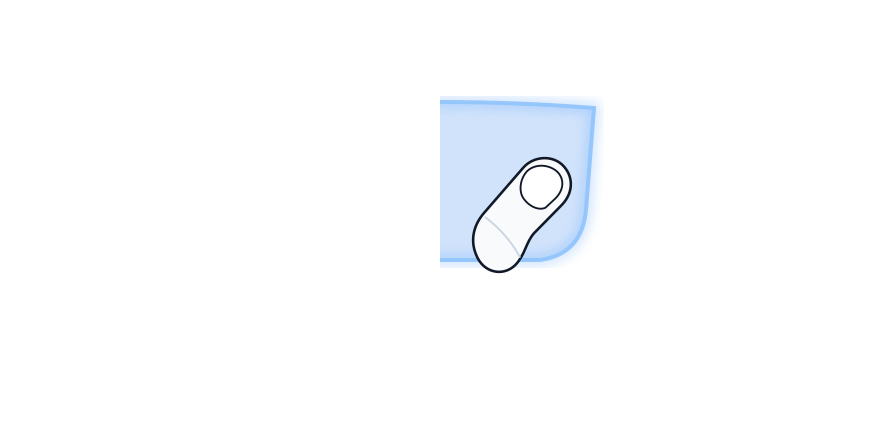
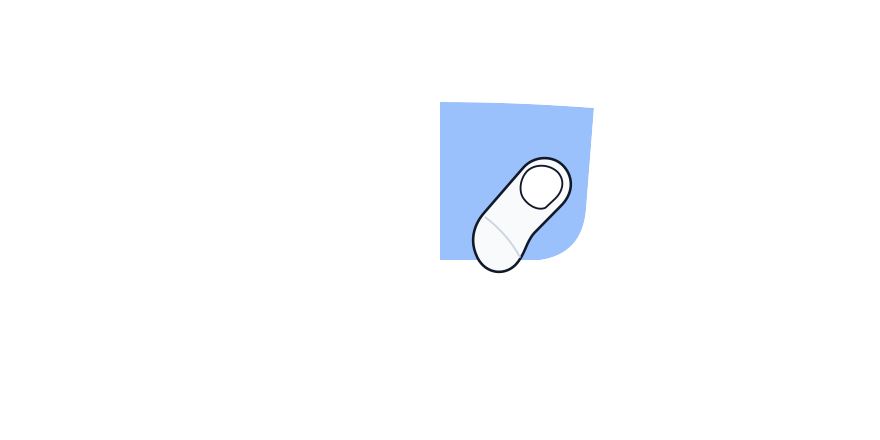
Use exact DualSense highlight masks

Changed region(s): [[0.4909, 0.2068, 0.7057, 0.6205]]

diff --git a/DS4Windows/DS4Forms/ProfileEditor.xaml b/DS4Windows/DS4Forms/ProfileEditor.xaml
@@ -127,14 +127,6 @@
                             </Rectangle>
                         </Button>
 
-                        <Path x:Name="dualSenseHoverPath" IsHitTestVisible="False" Visibility="Collapsed"
-                              Fill="#662C7DF7" Stroke="{DynamicResource AccentColor}" StrokeThickness="1.5"
-                              StrokeLineJoin="Round" SnapsToDevicePixels="True">
-                            <Path.Effect>
-                                <DropShadowEffect Color="#FF2C7DF7" BlurRadius="10" ShadowDepth="0" Opacity="0.85" />
-                            </Path.Effect>
-                        </Path>
-
                         <Image x:Name="picBoxHover" IsEnabled="False" Source="{Binding Source={StaticResource resourcesPaths}, Path=DS4ConfigRSPNG}" Height="48" Width="48" Canvas.Left="447" Canvas.Top="5" />
                         <Image x:Name="picBoxHover2" IsEnabled="False" Source="{Binding Source={StaticResource resourcesPaths}, Path=DS4ConfigRSPNG}" Height="48" Width="48" Canvas.Left="0" Canvas.Top="0" Stretch="Fill" />
 

diff --git a/DS4Windows/DS4Forms/ProfileEditor.xaml.cs b/DS4Windows/DS4Forms/ProfileEditor.xaml.cs
@@ -58,7 +58,7 @@ namespace DS4WinWPF.DS4Forms
         private Dictionary<Button, HoverImageInfo> hoverLocations = new Dictionary<Button, HoverImageInfo>();
         private Dictionary<Button, int> hoverIndexes = new Dictionary<Button, int>();
         private Dictionary<int, Button> reverseHoverIndexes = new Dictionary<int, Button>();
-        private Dictionary<Button, Geometry> dualSenseHoverGeometries = new Dictionary<Button, Geometry>();
+        private Dictionary<Button, ImageSource> dualSenseHoverImages = new Dictionary<Button, ImageSource>();
 
         private bool keepsize;
         private bool controllerReadingsTabActive = false;
@@ -170,61 +170,51 @@ namespace DS4WinWPF.DS4Forms
             ds4LightbarColorBtn.Height = 84;
             lightbarRect.OpacityMask = new ImageBrush(LoadResourceImage("DualSense lightbar.png"));
 
-            PopulateDualSenseHoverGeometries();
+            PopulateDualSenseHoverImages();
         }
 
-        private void PopulateDualSenseHoverGeometries()
+        private void PopulateDualSenseHoverImages()
         {
-            Geometry cross = new EllipseGeometry(new Point(346.5, 140.5), 14, 14);
-            Geometry circle = new EllipseGeometry(new Point(376.5, 113.5), 14, 14);
-            Geometry square = new EllipseGeometry(new Point(316.5, 113.5), 14, 14);
-            Geometry triangle = new EllipseGeometry(new Point(346.5, 89.5), 14, 14);
+            BitmapSource atlas = LoadResourceImage("DualSense-Config_Highlights.png") as BitmapSource;
+            if (atlas == null)
+            {
+                return;
+            }
 
-            dualSenseHoverGeometries[crossConBtn] = cross;
-            dualSenseHoverGeometries[circleConBtn] = circle;
-            dualSenseHoverGeometries[squareConBtn] = square;
-            dualSenseHoverGeometries[triangleConBtn] = triangle;
+            ImageSource Frame(int index) => new CroppedBitmap(
+                atlas, new Int32Rect(0, index * 220, 440, 220));
 
-            dualSenseHoverGeometries[l1ConBtn] = Geometry.Parse(
-                "M 70,24 Q 99,32 130,25 L 133,43 Q 101,56 67,44 Z");
-            dualSenseHoverGeometries[r1ConBtn] = Geometry.Parse(
-                "M 310,25 Q 341,32 370,24 L 373,44 Q 339,56 307,43 Z");
-            dualSenseHoverGeometries[l2ConBtn] = Geometry.Parse(
-                "M 75,0 L 124,0 Q 129,10 130,25 Q 100,34 70,25 Q 71,10 75,0 Z");
-            dualSenseHoverGeometries[r2ConBtn] = Geometry.Parse(
-                "M 317,0 L 366,0 Q 370,10 371,25 Q 341,34 311,25 Q 312,10 317,0 Z");
+            dualSenseHoverImages[crossConBtn] = Frame(0);
+            dualSenseHoverImages[circleConBtn] = Frame(1);
+            dualSenseHoverImages[squareConBtn] = Frame(2);
+            dualSenseHoverImages[triangleConBtn] = Frame(3);
+            dualSenseHoverImages[l1ConBtn] = Frame(4);
+            dualSenseHoverImages[r1ConBtn] = Frame(5);
+            dualSenseHoverImages[l2ConBtn] = Frame(6);
+            dualSenseHoverImages[r2ConBtn] = Frame(7);
+            dualSenseHoverImages[shareConBtn] = Frame(8);
+            dualSenseHoverImages[optionsConBtn] = Frame(9);
+            dualSenseHoverImages[guideConBtn] = Frame(10);
+            dualSenseHoverImages[muteConBtn] = Frame(11);
 
-            dualSenseHoverGeometries[shareConBtn] =
-                new RectangleGeometry(new Rect(116, 58, 15, 26), 7, 7);
-            dualSenseHoverGeometries[optionsConBtn] =
-                new RectangleGeometry(new Rect(310, 58, 15, 26), 7, 7);
-            dualSenseHoverGeometries[guideConBtn] =
-                new EllipseGeometry(new Point(220.5, 161), 15, 12);
-            dualSenseHoverGeometries[muteConBtn] =
-                new RectangleGeometry(new Rect(210, 177, 22, 10), 5, 5);
+            ImageSource leftStick = Frame(12);
+            dualSenseHoverImages[l3ConBtn] = leftStick;
+            dualSenseHoverImages[lsuConBtn] = leftStick;
+            dualSenseHoverImages[lsrConBtn] = leftStick;
+            dualSenseHoverImages[lsdConBtn] = leftStick;
+            dualSenseHoverImages[lslConBtn] = leftStick;
 
-            Geometry leftStick = new EllipseGeometry(new Point(156.5, 169), 31, 31);
-            dualSenseHoverGeometries[l3ConBtn] = leftStick;
-            dualSenseHoverGeometries[lsuConBtn] = leftStick;
-            dualSenseHoverGeometries[lsrConBtn] = leftStick;
-            dualSenseHoverGeometries[lsdConBtn] = leftStick;
-            dualSenseHoverGeometries[lslConBtn] = leftStick;
+            ImageSource rightStick = Frame(13);
+            dualSenseHoverImages[r3ConBtn] = rightStick;
+            dualSenseHoverImages[rsuConBtn] = rightStick;
+            dualSenseHoverImages[rsrConBtn] = rightStick;
+            dualSenseHoverImages[rsdConBtn] = rightStick;
+            dualSenseHoverImages[rslConBtn] = rightStick;
 
-            Geometry rightStick = new EllipseGeometry(new Point(284.5, 169), 31, 31);
-            dualSenseHoverGeometries[r3ConBtn] = rightStick;
-            dualSenseHoverGeometries[rsuConBtn] = rightStick;
-            dualSenseHoverGeometries[rsrConBtn] = rightStick;
-            dualSenseHoverGeometries[rsdConBtn] = rightStick;
-            dualSenseHoverGeometries[rslConBtn] = rightStick;
-
-            dualSenseHoverGeometries[upConBtn] = Geometry.Parse(
-                "M 84,78 Q 94,73 104,78 L 106,95 L 95,103 L 83,95 Z");
-            dualSenseHoverGeometries[rightConBtn] = Geometry.Parse(
-                "M 104,96 L 121,94 Q 132,98 136,106 Q 132,115 121,119 L 104,112 Z");
-            dualSenseHoverGeometries[downConBtn] = Geometry.Parse(
-                "M 83,112 L 95,105 L 106,112 L 104,130 Q 94,136 84,130 Z");
-            dualSenseHoverGeometries[leftConBtn] = Geometry.Parse(
-                "M 83,96 L 83,112 L 67,119 Q 56,115 54,106 Q 57,98 68,94 Z");
+            dualSenseHoverImages[upConBtn] = Frame(14);
+            dualSenseHoverImages[rightConBtn] = Frame(15);
+            dualSenseHoverImages[downConBtn] = Frame(16);
+            dualSenseHoverImages[leftConBtn] = Frame(17);
         }
 
         private static bool ShouldUseDualSenseDiagram(int device)
@@ -1144,16 +1134,18 @@ namespace DS4WinWPF.DS4Forms
 
         private void InputControlHighlight(Button control)
         {
-            if (usingDualSenseDiagram && dualSenseHoverGeometries.TryGetValue(control, out Geometry geometry))
+            if (usingDualSenseDiagram && dualSenseHoverImages.TryGetValue(control, out ImageSource dualSenseHover))
             {
-                picBoxHover.Visibility = Visibility.Hidden;
-                dualSenseHoverPath.Data = geometry;
-                dualSenseHoverPath.Visibility = Visibility.Visible;
+                picBoxHover.Source = dualSenseHover;
+                Canvas.SetLeft(picBoxHover, 0);
+                Canvas.SetTop(picBoxHover, 0);
+                picBoxHover.Width = 440;
+                picBoxHover.Height = 220;
+                picBoxHover.Stretch = Stretch.Fill;
+                picBoxHover.Visibility = Visibility.Visible;
             }
             else
             {
-                dualSenseHoverPath.Visibility = Visibility.Collapsed;
-
                 if (hoverImages.TryGetValue(control, out ImageBrush tempBrush))
                 {
                     picBoxHover.Source = tempBrush.ImageSource;
@@ -1207,7 +1199,6 @@ namespace DS4WinWPF.DS4Forms
             Canvas.SetLeft(picBoxHover, 0);
             Canvas.SetTop(picBoxHover, 0);
             picBoxHover.Visibility = Visibility.Hidden;
-            dualSenseHoverPath.Visibility = Visibility.Collapsed;
         }
 
         private void GyroOutModeCombo_SelectionChanged(object sender, SelectionChangedEventArgs e)
